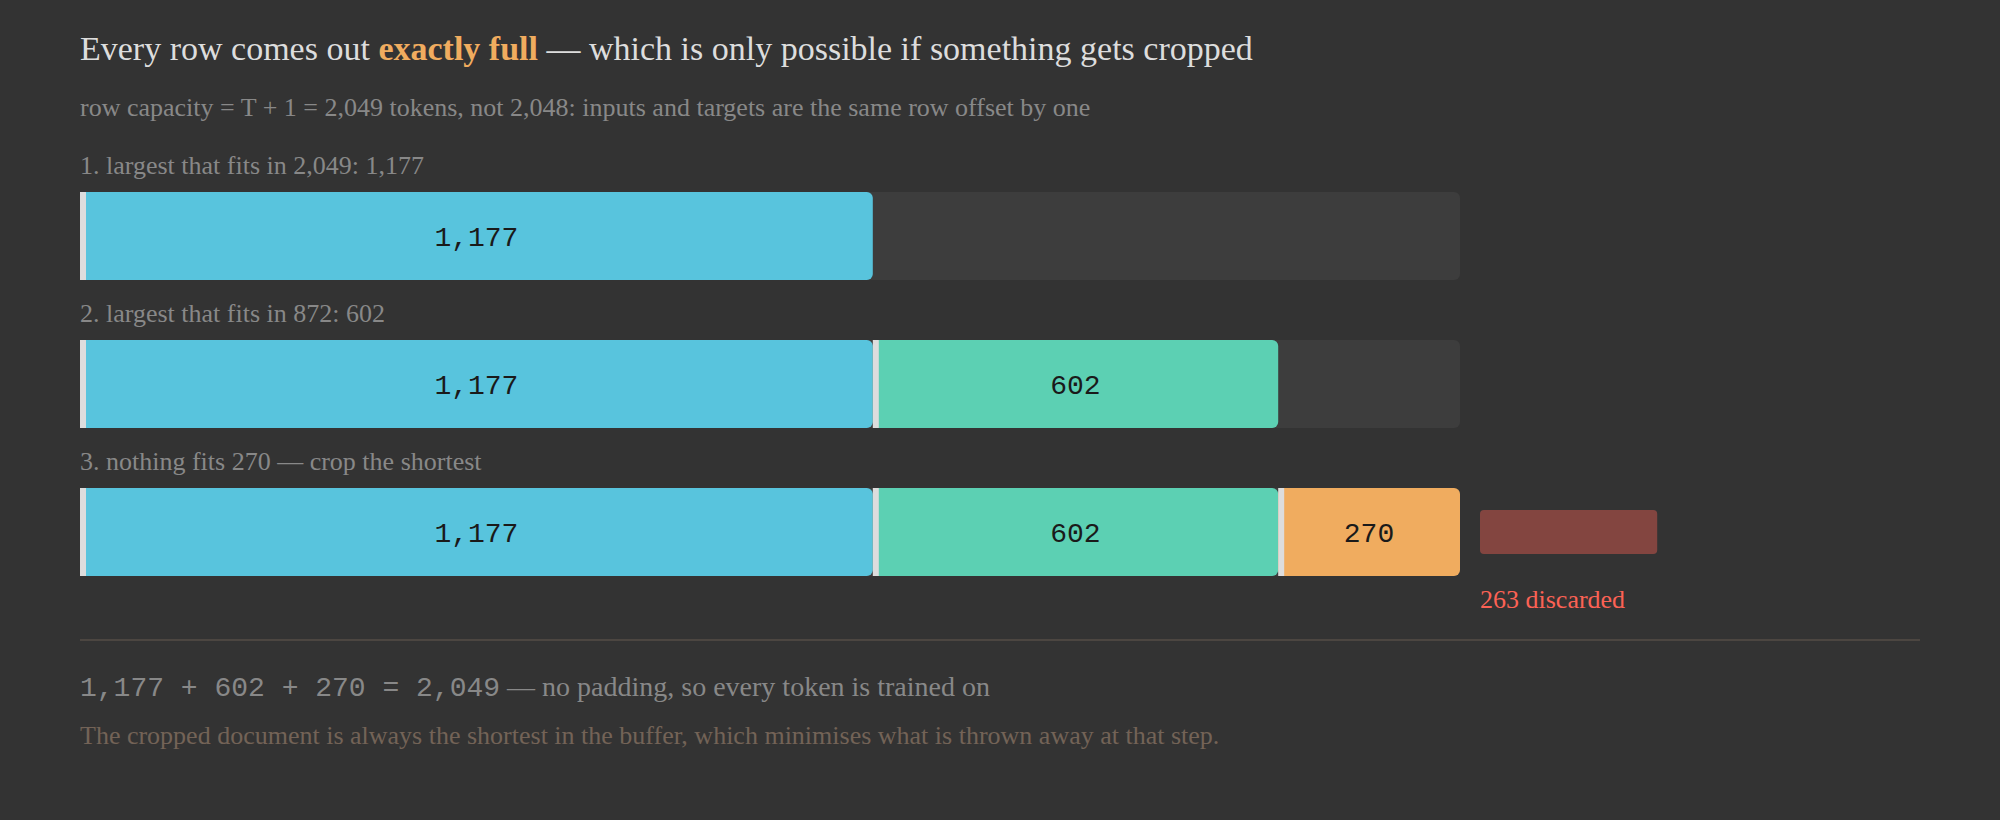
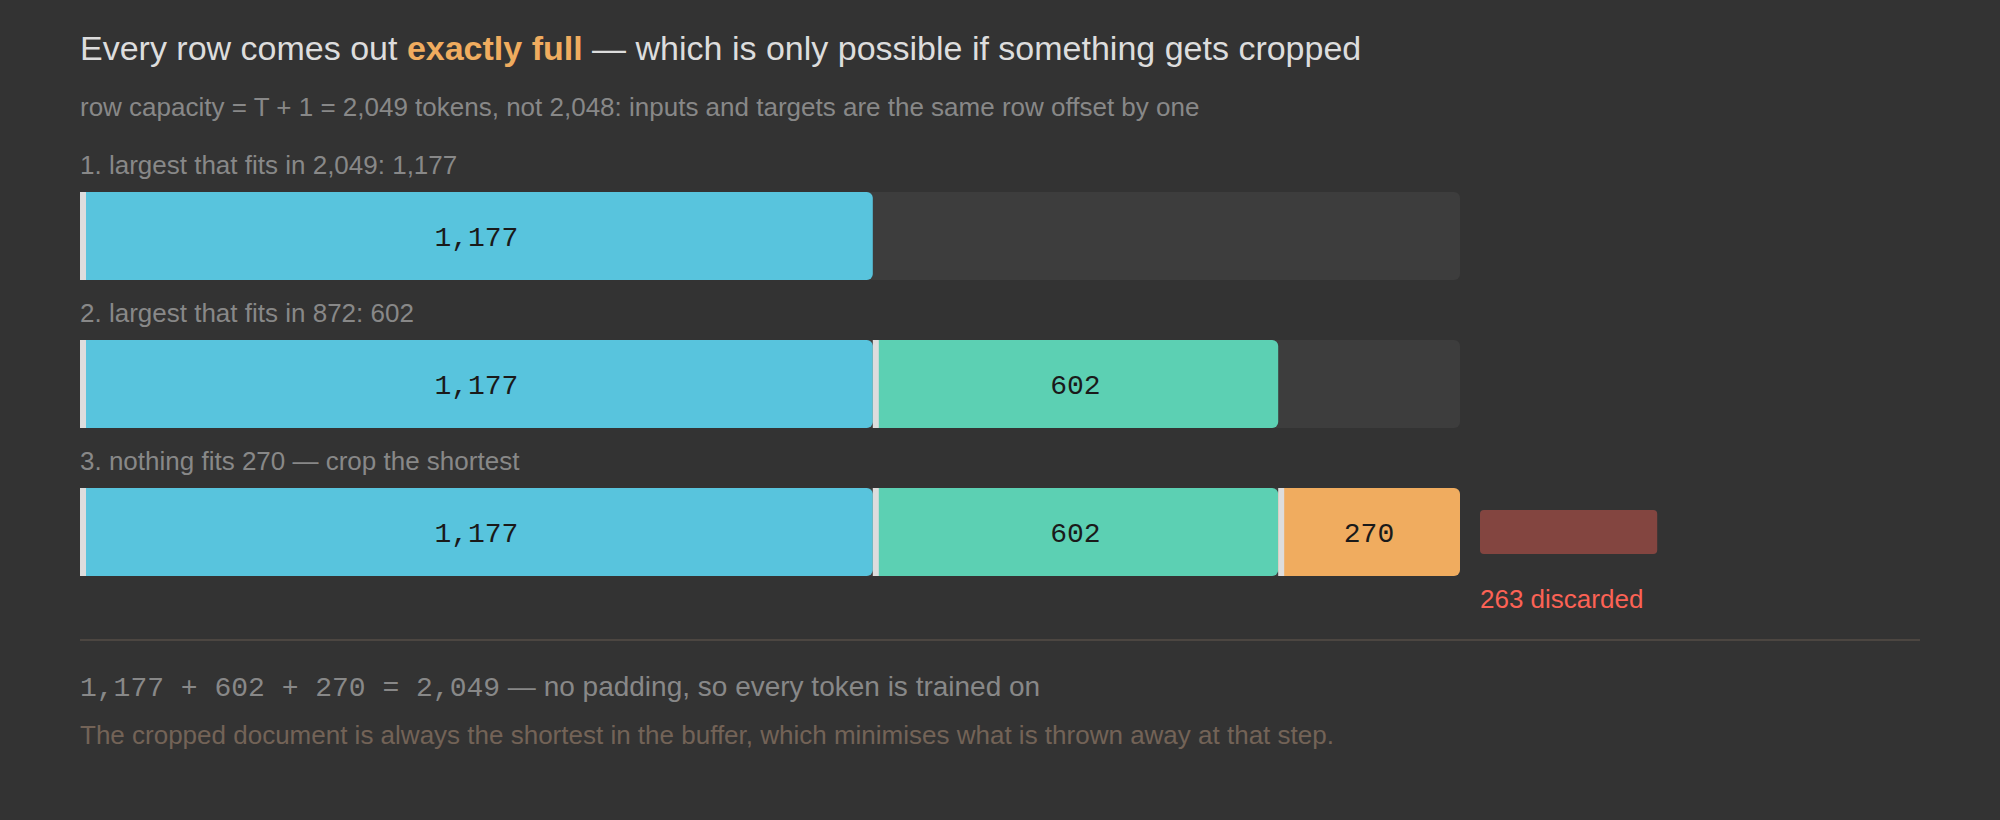
Fix typos in text and figures
- Fix markdown math snippet logic in speedrun part 1
- Fix table multiplier sign in speedrun part 1
- Add summary concluding sentence in speedrun part 1
- Fix font parsing bug in figure generator
- Regenerate SVGs and Medium-compatible PNGs
- Exclude png-export-prompt from Jekyll build

diff --git a/figures/figlib.py b/figures/figlib.py
@@ -28,16 +28,16 @@ MUTED = "#888888"    # grey_c
 DIM = "#555555"
 
 SANS = ("-apple-system,BlinkMacSystemFont,'Segoe UI',Roboto,"
-        "'Helvetica,Arial,sans-serif'")
+        "Helvetica,Arial,sans-serif")
 MONO = ("ui-monospace,SFMono-Regular,Consolas,'Liberation Mono',"
-        "'Menlo,monospace'")
+        "Menlo,monospace")
 
 OUT = os.path.dirname(os.path.abspath(__file__))
 
 
 def esc(s):
     return (str(s).replace("&", "&amp;").replace("<", "&lt;")
-            .replace(">", "&gt;").replace("'", "&quot;"))
+            .replace(">", "&gt;").replace('"', "&quot;"))
 
 
 class Fig:

diff --git a/_posts/2026-08-10-nanochat-speedrun-part-1.md b/_posts/2026-08-10-nanochat-speedrun-part-1.md
@@ -105,7 +105,7 @@ The detail I did not expect is in sliding-window attention.
 NanoChat tiles a pattern string across layers. The default is `SSSL`, where `L` is full context and `S` is shorter. Reading `_compute_window_sizes`:
 
 ```python
-short_window = -(long_window // 4 // 128) * 128  # ceil to FA3 tile size
+short_window = -(-long_window // 4 // 128) * 128  # ceil to FA3 tile size
 ```
 
 At `sequence_len = 2048` that is **512** – a quarter of the context, rounded to a tile boundary. So with `SSSL` tiled across 24 layers, layers 3, 7, 11, 15, 19 and 23 get full context, and the other eighteen see 512 tokens.
@@ -273,11 +273,13 @@ Reading code and predicting behaviour are different activities, and only the sec
 | 3 | FP8 converts exactly `145` of `158` linear layers, skipping `13` | A different count, or different layers |
 | 4 | Total tokens trained is exactly `5,568 × 1,048,576 = 5,838,471,168` | Any remainder, which would mean padding somewhere |
 | 5 | FA3 activates on H100 and says so | The run falls back to SDPA |
-| 6 | Base training is GPU-bound, so half the GPUs should take roughly twice as long as the 8xH100 reference of 1.65 h | Materially better or worse than about 2x |
+| 6 | Base training is GPU-bound, so half the GPUs should take roughly twice as long as the 8×H100 reference of 1.65 h | Materially better or worse than about 2x |
 | 7 | Utilization is high and *stable* – not a good average hiding a bad distribution | MFU that sags, spikes, or decays across the run |
 | 8 | The whole thing lands well under the old $100 GPT-2 line | It does not |
 
 The first five are checkable from the run log alone. The last three need the run to finish.
+
+If most of these hold, the interesting claim is not "NanoChat is fast." It is that a codebase simple enough to read in an afternoon can be this specific about what it is doing, and be right.
 
 ## What I am not testing
 
